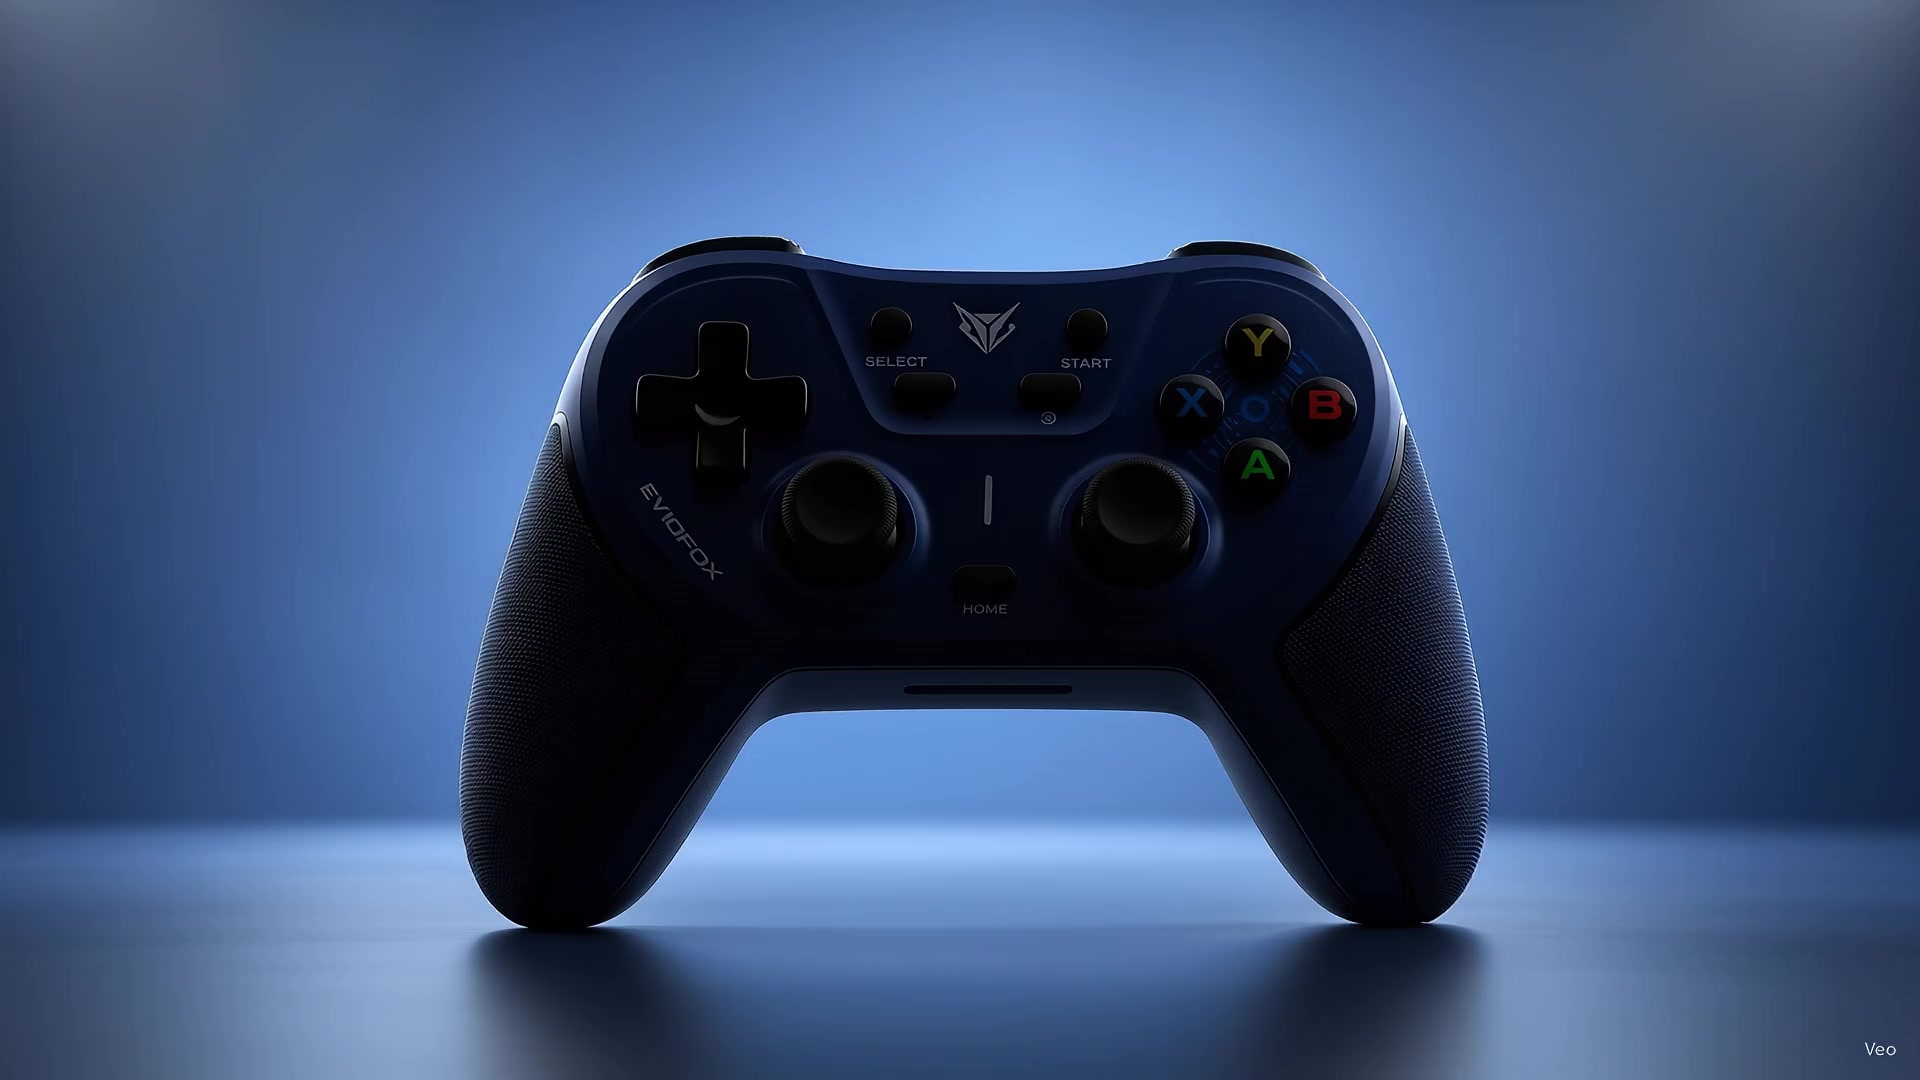
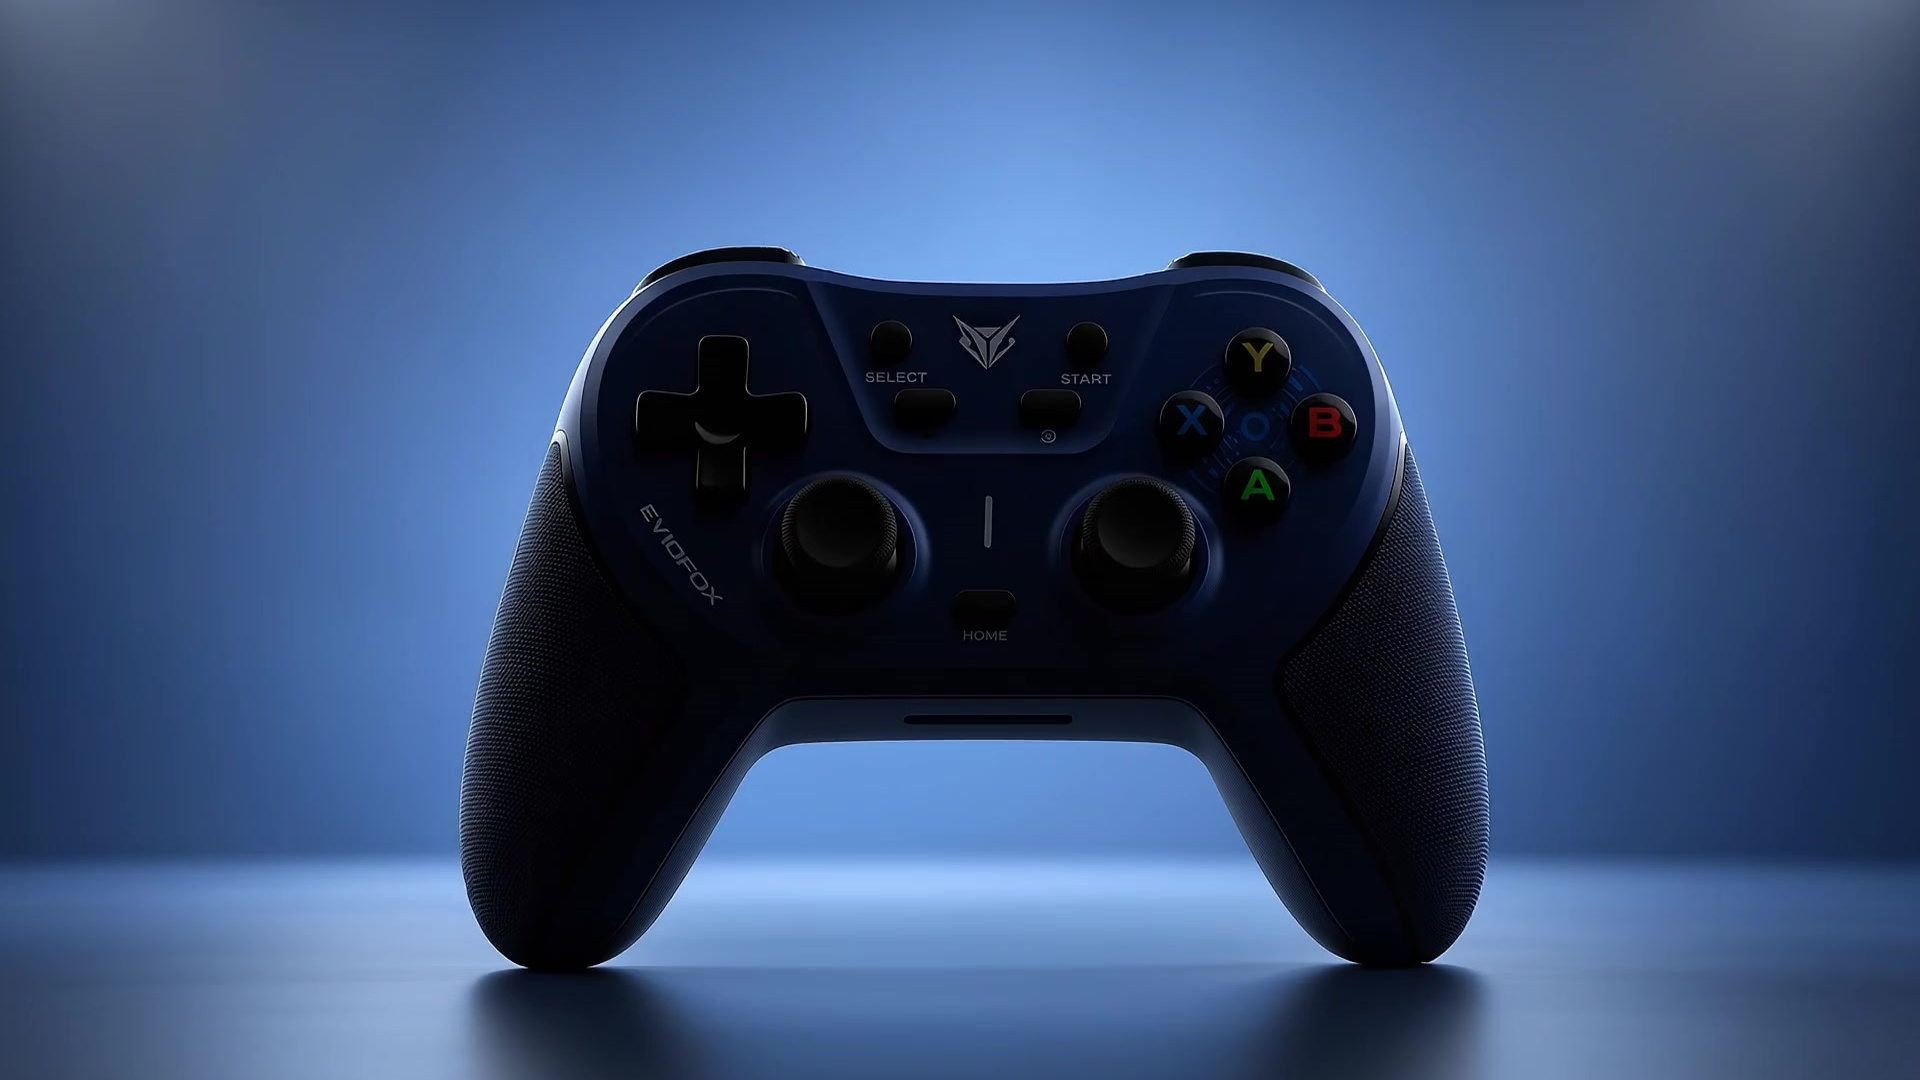
Fix Hero vertical text duplication and dark strip; make Headphones and Evofox Controller sections edge-to-edge seamless and remove watermarks

diff --git a/src/sections/ControllerShowcase.tsx b/src/sections/ControllerShowcase.tsx
@@ -9,13 +9,13 @@ export const ControllerShowcase: React.FC = () => {
     const container = containerRef.current;
     if (!video || !container) return;
 
-    // Autoplay when section enters viewport; pause when scrolled out of view to save GPU/battery
+    // Autoplay when section enters viewport; pause when scrolled out of view to conserve GPU
     const observer = new IntersectionObserver(
       (entries) => {
         entries.forEach((entry) => {
           if (entry.isIntersecting) {
             video.play().catch(() => {
-              // Autoplay error handling for strict browser policies
+              // Gracefully handle strict browser autoplay policies
             });
           } else {
             video.pause();
@@ -39,49 +39,35 @@ export const ControllerShowcase: React.FC = () => {
     <section
       id="controller-showcase"
       ref={containerRef}
-      className="relative w-full py-12 sm:py-16 md:py-20 lg:py-24 bg-[#080706] text-white overflow-hidden flex items-center justify-center"
-      aria-label="Evofox Gaming Controller Cinematic Showcase"
+      className="relative w-full min-h-[75vh] md:min-h-[85vh] lg:min-h-[92vh] overflow-hidden flex items-center justify-center text-white"
+      style={{
+        // Seamless matching background gradient matching the Evofox video's studio blue lighting
+        background: "radial-gradient(ellipse 85% 75% at 50% 50%, #3e629b 0%, #253b62 45%, #182845 75%, #0f192b 100%)",
+      }}
+      aria-label="Evofox Gaming Controller Showcase"
     >
-      {/* Subtle Cinematic Ambient Glow behind controller */}
+      {/* Edge-to-Edge Seamless Video Stage - No floating card, no card borders, no panel shadows */}
       <div
-        className="absolute inset-0 pointer-events-none z-0 overflow-hidden flex items-center justify-center"
-        aria-hidden="true"
+        className="relative w-full max-w-[1400px] aspect-video max-h-[90vh] overflow-hidden flex items-center justify-center"
+        style={{
+          // Soft edge blending that dissolves video edges seamlessly into the section background
+          maskImage: "radial-gradient(ellipse 96% 94% at 50% 50%, black 82%, transparent 100%)",
+          WebkitMaskImage: "radial-gradient(ellipse 96% 94% at 50% 50%, black 82%, transparent 100%)",
+        }}
       >
-        <div className="w-[850px] max-w-[90vw] h-[500px] rounded-full bg-[radial-gradient(ellipse_at_center,rgba(208,160,75,0.08)_0%,rgba(14,24,42,0.15)_40%,transparent_70%)] blur-2xl" />
-        <div className="absolute inset-0 bg-gradient-to-b from-[#080706] via-transparent to-[#080706]" />
-      </div>
-
-      <div className="relative z-10 w-full max-w-6xl mx-auto px-4 sm:px-6 lg:px-8 flex flex-col items-center justify-center">
-        {/* Cinematic Video Showcase Frame */}
-        <div className="relative w-full max-w-5xl rounded-2xl sm:rounded-3xl overflow-hidden border border-[#D0A04B]/20 bg-[#0B0907] shadow-[0_20px_60px_rgba(0,0,0,0.85),0_0_40px_rgba(208,160,75,0.07)] transition-all duration-500 hover:border-[#D0A04B]/40 group">
-          {/* Subtle Golden Inner Rim Lighting */}
-          <div
-            className="absolute inset-0 pointer-events-none z-10 rounded-2xl sm:rounded-3xl ring-1 ring-inset ring-white/10"
-            aria-hidden="true"
-          />
-
-          {/* Reserved 16:9 Aspect Ratio Container to completely eliminate layout shifts */}
-          <div className="relative w-full aspect-video overflow-hidden bg-[#080706] flex items-center justify-center">
-            <video
-              ref={videoRef}
-              src="/videos/Evofox_gaming_controller.mp4"
-              poster="/videos/evofox_poster.jpg"
-              autoPlay
-              muted
-              loop
-              playsInline
-              preload="metadata"
-              className="w-full h-full object-contain object-center block transform scale-[1.002] transition-transform duration-700 will-change-transform"
-              aria-label="Evofox Gaming Controller Product Video"
-            />
-
-            {/* Subtle cinematic edge vignette */}
-            <div
-              className="absolute inset-0 pointer-events-none bg-gradient-to-t from-[#080706]/40 via-transparent to-[#080706]/30 z-[5]"
-              aria-hidden="true"
-            />
-          </div>
-        </div>
+        <video
+          ref={videoRef}
+          src="/videos/Evofox_gaming_controller.mp4"
+          poster="/videos/evofox_poster.jpg"
+          autoPlay
+          muted
+          loop
+          playsInline
+          preload="metadata"
+          // Height set to 104.5% with top alignment to cleanly crop out the bottom-right watermark without distorting or zooming in on the controller
+          className="w-full h-[104.5%] object-cover object-[center_top] block will-change-transform"
+          aria-label="Evofox Gaming Controller Product Video"
+        />
       </div>
     </section>
   );

diff --git a/src/components/ui/PersistentVerticalScrollText.tsx b/src/components/ui/PersistentVerticalScrollText.tsx
@@ -7,39 +7,23 @@ export const PersistentVerticalScrollText: React.FC = () => {
   // Exact phrase specified in the requirements
   const phrase = "WE WOULD ALWAYS LOVE TO WORK WITH YOU!";
 
-  // Repetition array for continuous smooth vertical movement
-  const repetitions = [0, 1];
-
   const renderTrackSet = (keyPrefix: string, isAriaHidden: boolean = false) => (
     <div
       key={keyPrefix}
       aria-hidden={isAriaHidden}
-      className="flex flex-col items-center shrink-0 pointer-events-none select-none"
+      className="flex flex-col items-center shrink-0 pointer-events-none select-none pb-[105vh]"
     >
-      {repetitions.map((idx) => (
-        <div
-          key={`${keyPrefix}-${idx}`}
-          className="flex items-center gap-8 sm:gap-12 pb-24 sm:pb-32 text-3xl sm:text-5xl md:text-6xl lg:text-[70px] xl:text-[78px] font-heading font-black uppercase tracking-tight pointer-events-none select-none"
-          style={{
-            color: "#FFFFFF",
-            WebkitTextStroke: "none",
-            textShadow: "0 2px 24px rgba(0, 0, 0, 0.95), 0 0 12px rgba(208, 160, 75, 0.22)",
-          }}
-        >
-          <span className="whitespace-nowrap text-white font-heading font-black">
-            {phrase}
-          </span>
-          <span
-            className="text-lg sm:text-2xl font-mono select-none"
-            style={{
-              color: "#D0A04B",
-              textShadow: "0 0 10px rgba(208, 160, 75, 0.65)",
-            }}
-          >
-            ✦
-          </span>
-        </div>
-      ))}
+      <div
+        className="text-3xl sm:text-5xl md:text-6xl lg:text-[70px] xl:text-[78px] font-heading font-black uppercase tracking-tight text-white pointer-events-none select-none"
+        style={{
+          color: "#FFFFFF",
+          textShadow: "0 2px 12px rgba(0, 0, 0, 0.75)",
+        }}
+      >
+        <span className="whitespace-nowrap font-heading font-black text-white">
+          {phrase}
+        </span>
+      </div>
     </div>
   );
 
@@ -47,31 +31,28 @@ export const PersistentVerticalScrollText: React.FC = () => {
     <aside
       aria-hidden="true"
       tabIndex={-1}
-      className="absolute top-0 bottom-0 left-0 z-20 pointer-events-none select-none overflow-hidden h-full"
+      className="absolute top-0 bottom-0 left-0 z-20 pointer-events-none select-none overflow-hidden h-full bg-transparent"
       style={{
         width: "clamp(75px, 7.5vw, 120px)",
         pointerEvents: "none",
       }}
     >
-      {/* Subtle vertical golden rail */}
-      <div className="absolute right-0 top-0 bottom-0 w-[1px] bg-gradient-to-b from-transparent via-[#D0A04B]/30 to-transparent pointer-events-none" />
-
-      {/* Dedicated clipping container: exactly 10% clipped at left edge, 90% visible */}
+      {/* Dedicated clipping container: exactly 10% clipped at left edge, 90% visible. No black background or overlay */}
       <div
-        className="w-full h-full relative pointer-events-none flex items-center justify-start"
+        className="w-full h-full relative pointer-events-none flex items-center justify-start bg-transparent"
         style={{
           transform: "translateX(-10%)",
         }}
       >
         {/* Continuous Top-to-Bottom Scrolling Track */}
         <div
-          className={`flex flex-col items-center pointer-events-none will-change-transform ${
+          className={`flex flex-col items-center pointer-events-none will-change-transform bg-transparent ${
             prefersReducedMotion ? "" : "animate-vertical-marquee-down"
           }`}
           style={{
             writingMode: "vertical-rl",
             textOrientation: "mixed",
-            animationDuration: "35s",
+            animationDuration: "28s",
             pointerEvents: "none",
           }}
         >

diff --git a/src/components/ui/HeadphonesScrollCanvas.tsx b/src/components/ui/HeadphonesScrollCanvas.tsx
@@ -9,6 +9,14 @@ interface HeadphonesScrollCanvasProps {
 const TOTAL_FRAMES = 240;
 const INITIAL_PRELOAD_COUNT = 32;
 
+// The "Veo" watermark is located at y >= 1042 in the bottom right corner of the 1920x1080 source frames.
+// By setting source height to 1032px, the watermark is cleanly and completely cropped out with zero distortion to the headphone.
+const SOURCE_WIDTH = 1920;
+const SOURCE_HEIGHT = 1032;
+
+// The exact matching pink background color from the edges of the studio frames
+const STUDIO_PINK_BG = "#c3766f";
+
 const getFrameUrl = (frameIndex: number): string => {
   const padded = String(frameIndex).padStart(5, "0");
   return `/videos/headphones/frame_${padded}.jpg`;
@@ -89,7 +97,7 @@ export const HeadphonesScrollCanvas: React.FC<HeadphonesScrollCanvasProps> = ({
     };
   }, []);
 
-  // Draw current frame to canvas respecting aspect ratio and DPR
+  // Draw current frame to canvas respecting aspect ratio, edge-to-edge coverage, and watermark removal
   const drawFrame = useCallback((frameNum: number) => {
     const canvas = canvasRef.current;
     if (!canvas) return;
@@ -129,21 +137,41 @@ export const HeadphonesScrollCanvas: React.FC<HeadphonesScrollCanvasProps> = ({
       canvas.height = neededHeight;
     }
 
-    // Preserve 16:9 / natural aspect ratio centered
-    const imgWidth = img.naturalWidth;
-    const imgHeight = img.naturalHeight;
-    const scale = Math.min(canvas.width / imgWidth, canvas.height / imgHeight);
+    // Matching studio pink base fill to eliminate all black gaps or visible boundaries
+    ctx.fillStyle = STUDIO_PINK_BG;
+    ctx.fillRect(0, 0, canvas.width, canvas.height);
 
-    const destWidth = imgWidth * scale;
-    const destHeight = imgHeight * scale;
+    // Scaling calculation:
+    // On desktop / wide displays, cover edge-to-edge from top to bottom
+    // On portrait mobile, ensure headphone remains centered and unclipped while filling background seamlessly
+    const isPortrait = canvas.width < canvas.height;
+    let scale: number;
+
+    if (isPortrait) {
+      // Mobile portrait: scale so headphone is centered, large, and completely in-frame
+      scale = Math.min(canvas.width / 1250, canvas.height / SOURCE_HEIGHT) * 1.15;
+    } else {
+      // Desktop / landscape: cover the entire section edge-to-edge
+      scale = Math.max(canvas.width / SOURCE_WIDTH, canvas.height / SOURCE_HEIGHT) * 1.02;
+    }
+
+    const destWidth = SOURCE_WIDTH * scale;
+    const destHeight = SOURCE_HEIGHT * scale;
     const destX = (canvas.width - destWidth) / 2;
     const destY = (canvas.height - destHeight) / 2;
 
-    // Deep black base fill matching ZYNOVA dark theme
-    ctx.fillStyle = "#080706";
-    ctx.fillRect(0, 0, canvas.width, canvas.height);
-
-    ctx.drawImage(img, destX, destY, destWidth, destHeight);
+    // Draw from source 0..SOURCE_WIDTH and 0..SOURCE_HEIGHT (excludes bottom watermark)
+    ctx.drawImage(
+      img,
+      0,
+      0,
+      SOURCE_WIDTH,
+      SOURCE_HEIGHT,
+      destX,
+      destY,
+      destWidth,
+      destHeight
+    );
   }, []);
 
   // Scrub frame according to progress (0.0 to 1.0)
@@ -220,7 +248,7 @@ export const HeadphonesScrollCanvas: React.FC<HeadphonesScrollCanvasProps> = ({
     <div className={`relative w-full h-full overflow-hidden flex items-center justify-center ${className}`}>
       <canvas
         ref={canvasRef}
-        className="w-full h-full object-contain block"
+        className="w-full h-full block"
       />
     </div>
   );

diff --git a/src/sections/HeadphonesShowcase.tsx b/src/sections/HeadphonesShowcase.tsx
@@ -65,52 +65,23 @@ export const HeadphonesShowcase = forwardRef<HTMLElement, HeadphonesShowcaseProp
     <section
       id="headphones-showcase"
       ref={containerRef}
-      className={`relative w-full bg-[#080706] text-white overflow-visible border-t border-[#D0A04B]/20 rounded-t-[36px] sm:rounded-t-[44px] md:rounded-t-[52px] shadow-[0_-12px_48px_rgba(0,0,0,0.75)] ${className}`}
+      className={`relative w-full bg-[#c3766f] overflow-visible border-t border-[#D0A04B]/20 rounded-t-[36px] sm:rounded-t-[44px] md:rounded-t-[52px] shadow-[0_-12px_48px_rgba(0,0,0,0.75)] ${className}`}
       style={{
-        // 280vh on desktop provides comfortable scroll travel for 240 frames; 220vh on mobile ensures no scroll fatigue
         minHeight: isMobile ? "220vh" : "280vh",
         zIndex: 18,
       }}
       aria-label="Apple Headphones Cinematic Scroll Showcase"
     >
-      {/* Sticky Full-Viewport Visual Stage */}
+      {/* Sticky Full-Viewport Stage: Edge-to-edge seamless pink background, no floating card */}
       <div
-        className="sticky top-0 h-screen w-full overflow-hidden flex items-center justify-center bg-[#080706]"
+        className="sticky top-0 h-screen w-full overflow-hidden flex items-center justify-center bg-[#c3766f]"
         style={{ position: "sticky", top: 0 }}
       >
-        {/* Subtle Ambient Studio Lighting */}
-        <div
-          className="absolute inset-0 pointer-events-none z-0 overflow-hidden flex items-center justify-center"
-          aria-hidden="true"
-        >
-          <div className="w-[900px] max-w-[90vw] h-[550px] rounded-full bg-[radial-gradient(ellipse_at_center,rgba(208,160,75,0.07)_0%,rgba(180,90,110,0.06)_40%,transparent_70%)] blur-3xl" />
-          <div className="absolute inset-0 bg-gradient-to-b from-[#080706]/50 via-transparent to-[#080706]/70" />
-        </div>
-
-        {/* Centered Headphones Visual Stage */}
-        <div className="relative z-10 w-full max-w-6xl mx-auto px-4 sm:px-6 lg:px-8 flex flex-col items-center justify-center">
-          <div className="relative w-full max-w-5xl rounded-2xl sm:rounded-3xl overflow-hidden border border-[#D0A04B]/20 bg-[#0B0907] shadow-[0_25px_65px_rgba(0,0,0,0.85),0_0_40px_rgba(208,160,75,0.08)] transition-all duration-500 hover:border-[#D0A04B]/40 group">
-            {/* Subtle Golden Inner Rim Lighting */}
-            <div
-              className="absolute inset-0 pointer-events-none z-10 rounded-2xl sm:rounded-3xl ring-1 ring-inset ring-white/10"
-              aria-hidden="true"
-            />
-
-            {/* Reserved 16:9 Aspect Ratio Frame Container */}
-            <div className="relative w-full aspect-video overflow-hidden bg-[#080706] flex items-center justify-center">
-              <HeadphonesScrollCanvas
-                progress={prefersReducedMotion ? 0 : scrollProgress}
-                className="w-full h-full"
-              />
-
-              {/* Subtle cinematic edge vignette */}
-              <div
-                className="absolute inset-0 pointer-events-none bg-gradient-to-t from-[#080706]/35 via-transparent to-[#080706]/25 z-[5]"
-                aria-hidden="true"
-              />
-            </div>
-          </div>
-        </div>
+        {/* Full-Section Edge-to-Edge Canvas */}
+        <HeadphonesScrollCanvas
+          progress={prefersReducedMotion ? 0 : scrollProgress}
+          className="absolute inset-0 w-full h-full"
+        />
       </div>
     </section>
   );
